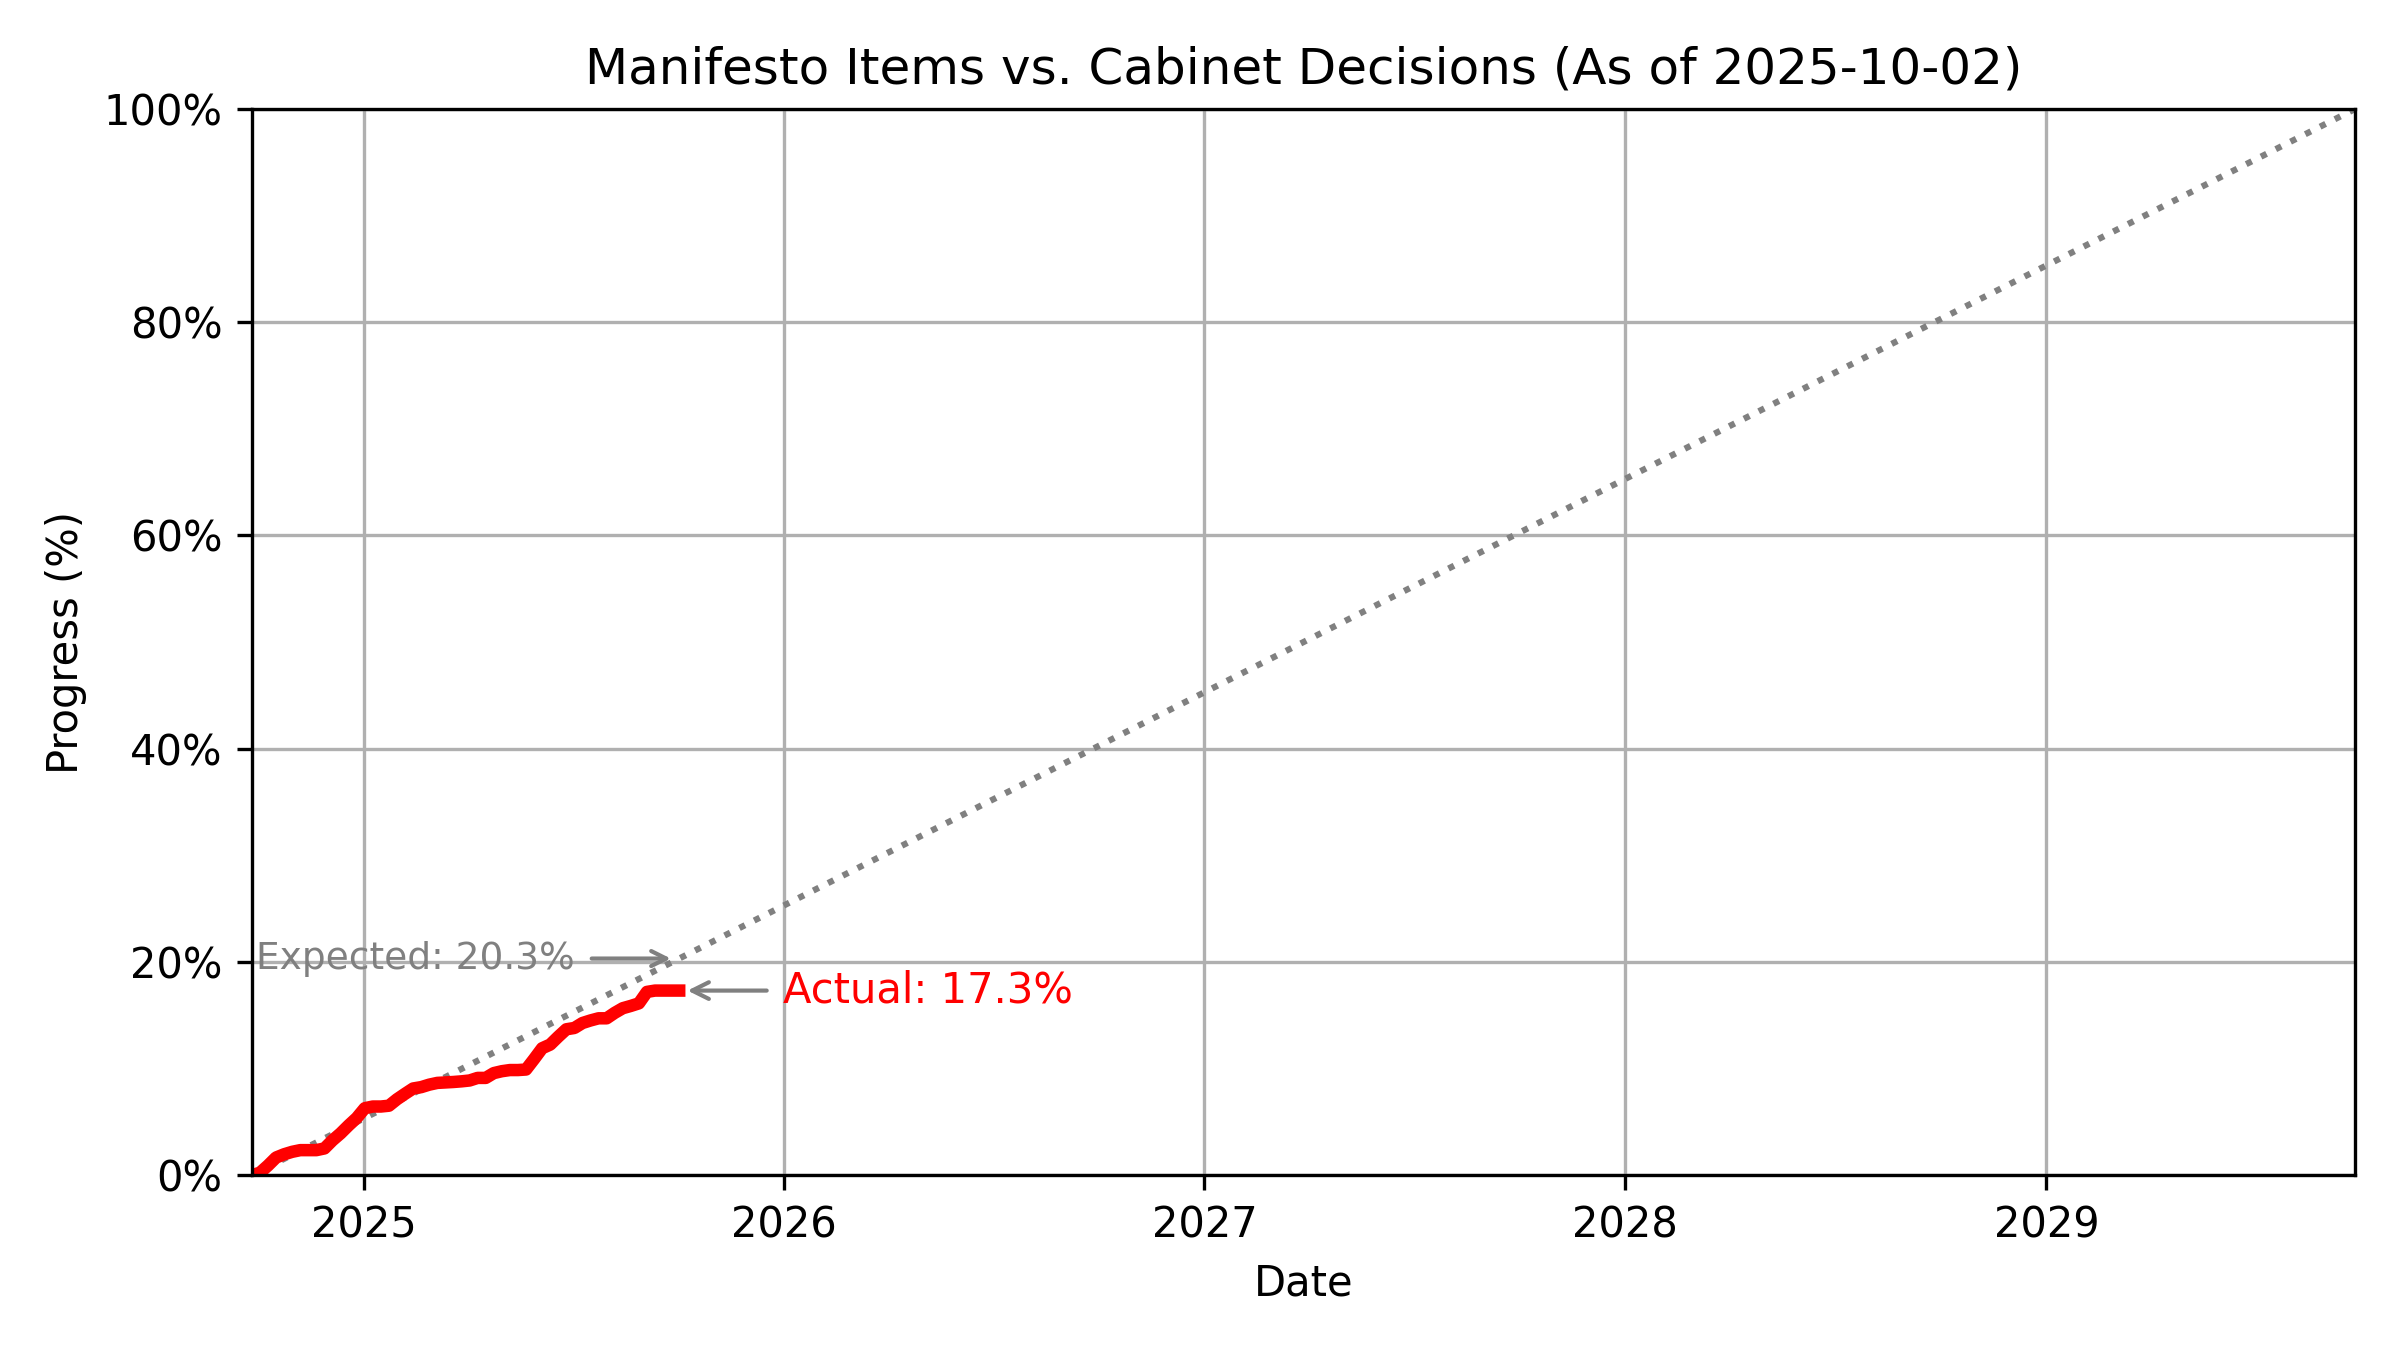
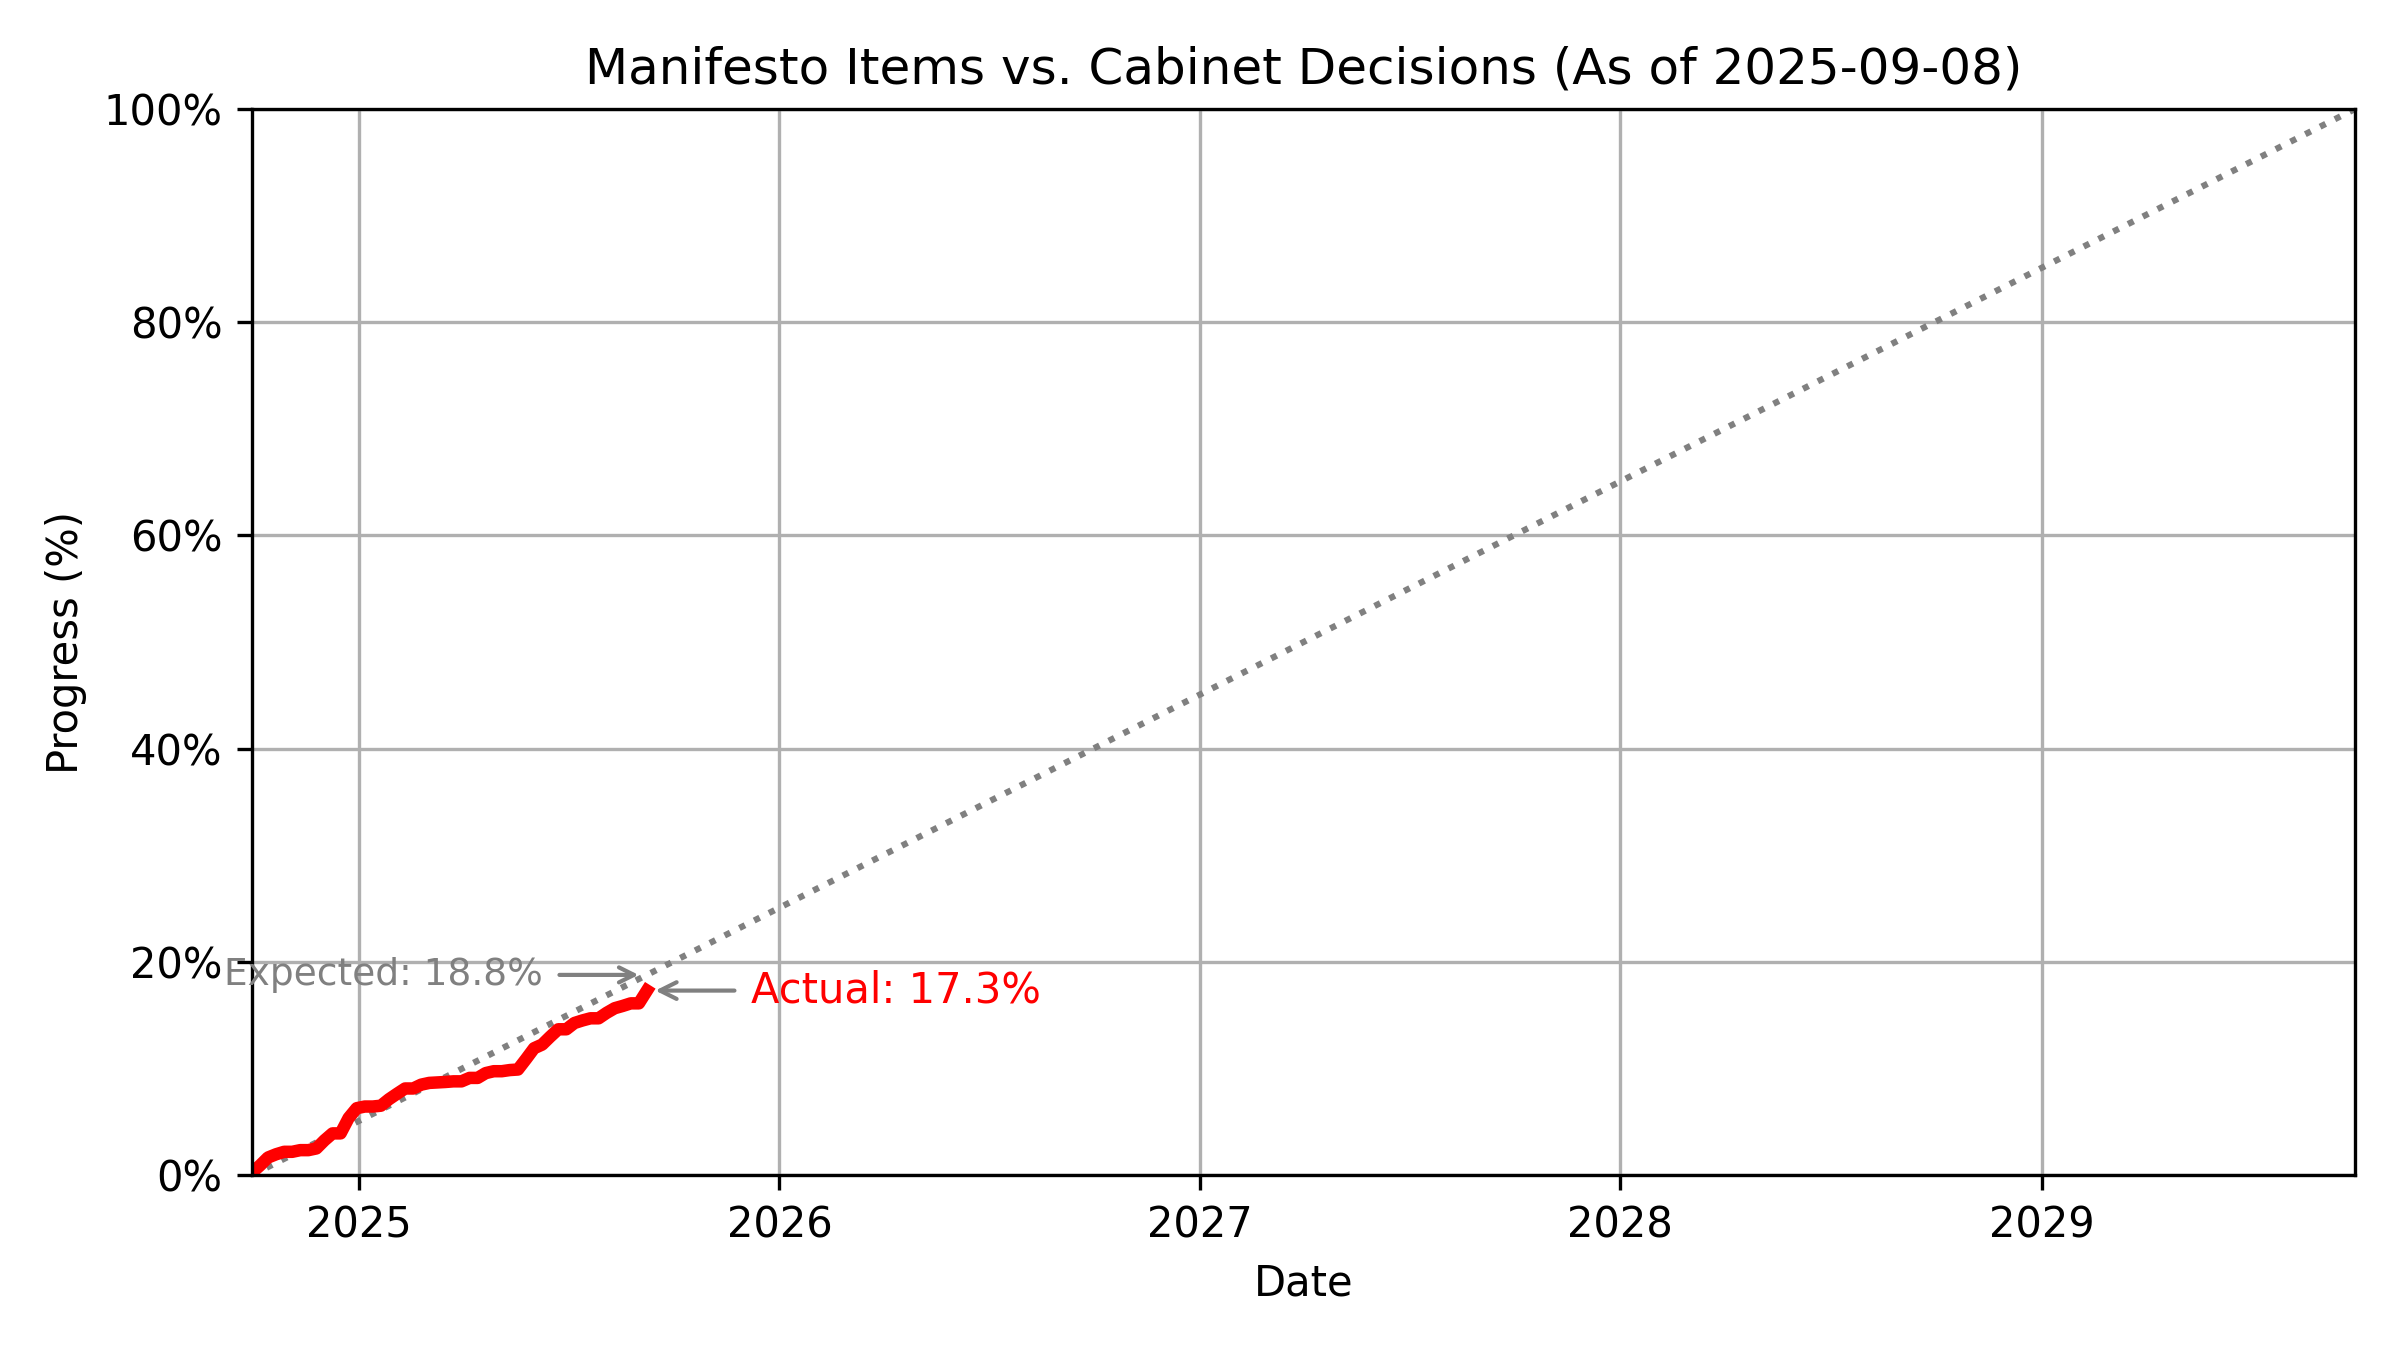
more fixes

diff --git a/src/mm/monitoring/CompareManifesto.py b/src/mm/monitoring/CompareManifesto.py
@@ -185,7 +185,9 @@ class CompareManifesto:
     @cache
     def __get_overall_progress_by_date_hot__(self):
         min_t = TimeFormat.DATE.parse(self.MIN_DATE_CABINET_DECISIONS).ut
-        max_t = Time.now().ut
+        max_t = TimeFormat.DATE.parse(
+            self.cabinet_decisions_for_compare[0].date_str
+        ).ut
 
         t = max_t
         d_list = []
